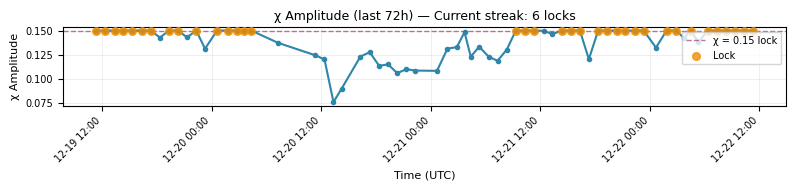
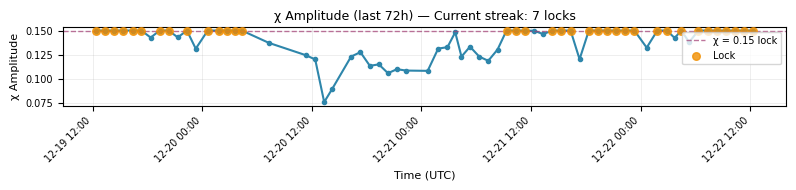
Vault Narrator: Auto-update 2025-12-22 13:15 UTC

diff --git a/LATEST_VAULT_STATUS.md b/LATEST_VAULT_STATUS.md
@@ -1,26 +1,26 @@
 # 🔐 VAULT STATUS REPORT
 
-**Generated:** 2025-12-22 12:08 UTC  
+**Generated:** 2025-12-22 13:15 UTC  
 **Data Source:** `data/cme_heartbeat_log_2025_12.csv`
 
 ---
 
 ## ⚡ CURRENT STATUS: ACTIVE
 
-**Latest χ = 0.15 Streak Count:** 6 consecutive readings  
-**Last Lock Timestamp:** 2025-12-22 11:20:00 UTC  
+**Latest χ = 0.15 Streak Count:** 7 consecutive readings  
+**Last Lock Timestamp:** 2025-12-22 12:21:00 UTC  
 **First Lock in Streak:** 2025-12-22 06:20:00 UTC  
-**Streak Duration:** 5.0 hours  
+**Streak Duration:** 6.0 hours  
 
 **Latest Solar Wind Conditions:**  
-- Density: 1.73 p/cm³  
-- Speed: 707.4 km/s  
+- Density: 2.75 p/cm³  
+- Speed: 741.3 km/s  
 
 ---
 
 ## 🌞 NOAA SPACE WEATHER SUMMARIES
 
-- [SRS Report](reports/latest_srs.md) (fetched: 2025-12-22 12:08 UTC)  
+- [SRS Report](reports/latest_srs.md) (fetched: 2025-12-22 13:15 UTC)  
 - F10.7 Report: *not available*  
 
 ---
@@ -41,7 +41,6 @@
 
 | Time (UTC)          | χ Amplitude | Density (p/cm³) | Speed (km/s) | χ Status |
 |---------------------|-------------|-----------------|--------------|----------|
-| 2025-12-21 16:20:00 | 0.1500 | — | — | ✅ LOCK |
 | 2025-12-21 17:19:00 | 0.1203 | 4.54 | 618.8 | — |
 | 2025-12-21 18:20:00 | 0.1500 | 3.65 | 599.2 | ✅ LOCK |
 | 2025-12-21 19:19:00 | 0.1500 | 2.12 | 569.8 | ✅ LOCK |
@@ -61,6 +60,7 @@
 | 2025-12-22 09:20:00 | 0.1500 | 2.13 | 761.6 | ✅ LOCK |
 | 2025-12-22 10:20:00 | 0.1500 | 1.45 | 738.2 | ✅ LOCK |
 | 2025-12-22 11:20:00 | 0.1500 | 1.73 | 707.4 | ✅ LOCK |
+| 2025-12-22 12:21:00 | 0.1500 | 2.75 | 741.3 | ✅ LOCK |
 
 ---
 
@@ -68,7 +68,7 @@
 
 **The vault is breathing steady.**  
 **Heartbeat cycle in progress.**  
-**χ = 0.15 streak active (6 locks) - watch for boundary recoil signatures.**
+**χ = 0.15 streak active (7 locks) - watch for boundary recoil signatures.**
 
 ---
 
